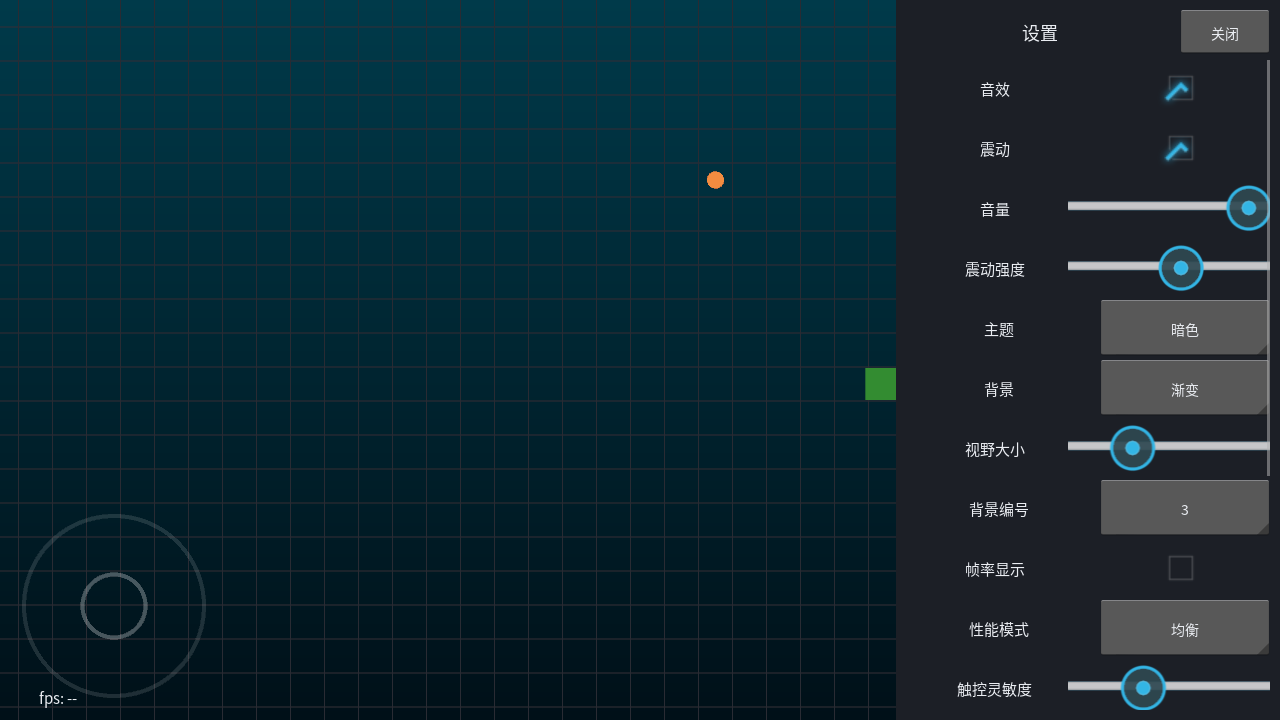
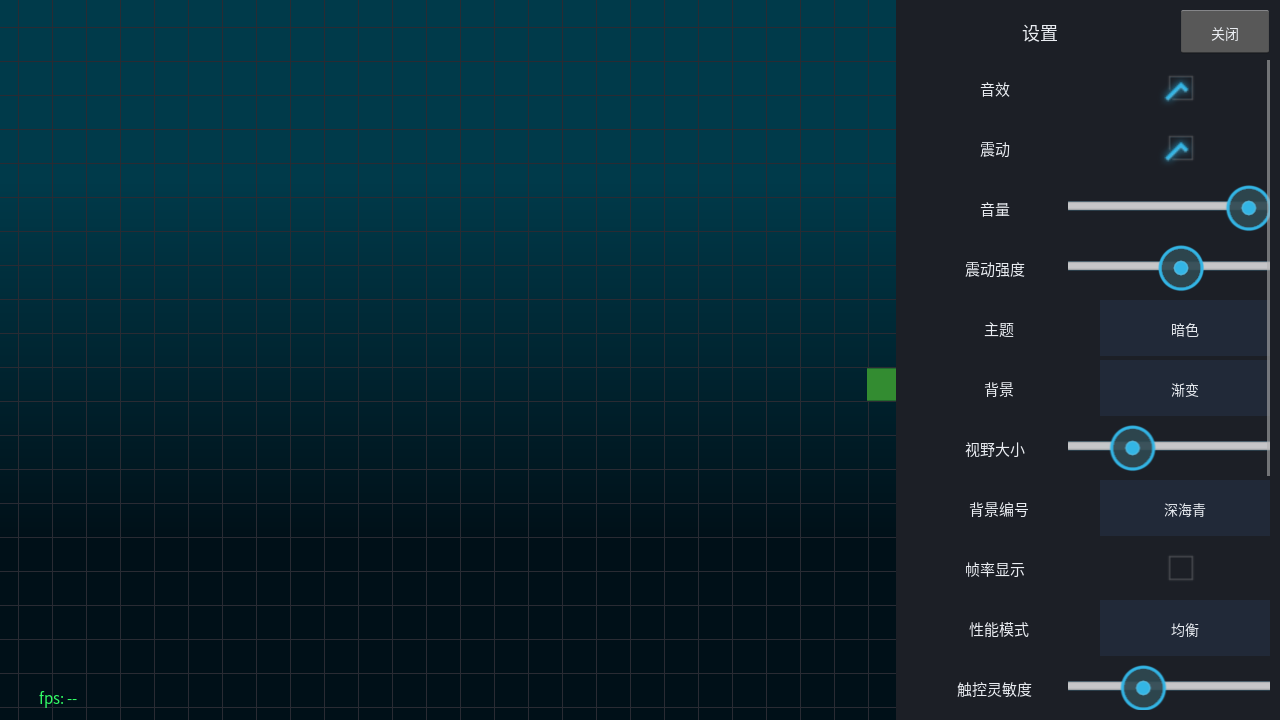
Fullscreen immersive, smooth 2px gradient, spinner contrast + bg names, dynamic joystick + input queue

diff --git a/src/app/app.py b/src/app/app.py
@@ -45,6 +45,7 @@ from core.debug import DebugStats
 from core.audio import Haptics, SoundManager
 from core.confirm import ConfirmState
 from core.frame_budget import chunk_slot, forced_chunk_frame
+from core.input_queue import InputQueue
 from core.replay import Recorder
 from core.replay_player import ReplayDriver
 from core.replay_controls import ReplayControls
@@ -105,6 +106,7 @@ class SnakeApp(App):
     replaypause_shot = False
     bg_demo = False
     menu_shot = False
+    joystick_shot = False
     theme_override: str | None = None
     font_override: float | None = None
 
@@ -161,9 +163,11 @@ class SnakeApp(App):
         if self.wrap:
             self.game.set_wrap_mode(True)
         self.session: AISession | None = None
+        self.input_queue = InputQueue()
         if self.ai:
             self.session = AISession()
-            self.game.tick_listeners.append(self._ai_tick)
+        self.game.tick_listeners.append(self._apply_queue)
+        self.game.tick_listeners.append(self._ai_tick)
         self.canvas_widget = GameCanvas(self.game)
         self.canvas_widget.size_hint = (1.0, 1.0)
         self.canvas_widget.pos_hint = {"x": 0, "y": 0}
@@ -200,7 +204,6 @@ class SnakeApp(App):
         self.scrim = Scrim(on_tap=self._close_menu, size_hint=(1, 1))
         root.add_widget(self.scrim)
         self.scrim.show(False)
-        root.add_widget(self.panel)
         self.menu_btn = MenuButton(on_toggle=self._toggle_menu,
                                    pos_hint={'right': 0.99, 'top': 0.985})
         root.add_widget(self.menu_btn)
@@ -257,6 +260,9 @@ class SnakeApp(App):
             if self.pause_shot:
                 Clock.schedule_once(lambda _dt: self._toggle_pause(), 0.4)
                 Clock.schedule_once(lambda _dt: self._shot("pause"), 0.9)
+            if self.joystick_shot:
+                Clock.schedule_once(self._fake_joystick, 0.5)
+                Clock.schedule_once(lambda _dt: self._shot("joystick"), 1.0)
             if self.menu_shot:
                 Clock.schedule_once(lambda _dt: self._toggle_menu(), 0.4)
                 Clock.schedule_once(lambda _dt: self._shot("menu"), 0.9)
@@ -406,17 +412,24 @@ class SnakeApp(App):
             pass
 
     def _toggle_menu(self) -> None:
-        opened = self.panel.opacity > 0.5
-        if opened:
+        if getattr(self, "menu_open", False):
             self._close_menu()
-        else:
-            self.panel.opacity = 1
-            self.panel.disabled = False
-            self.scrim.show(True)
+            return
+        self.menu_open = True
+        self.panel.opacity = 1
+        self.panel.disabled = False
+        if self.panel.parent is None:
+            self.root_layout.add_widget(self.panel)
+        self.root_layout.remove_widget(self.menu_btn)
+        self.root_layout.add_widget(self.menu_btn)   # 提到最上层
+        self.scrim.show(True)
+        self.scrim.opacity = 0.35
+        self.panel.apply_theme(palette(self.cfg.get("theme", "dark")))
 
     def _close_menu(self) -> None:
-        self.panel.opacity = 0
-        self.panel.disabled = True
+        self.menu_open = False
+        if self.panel.parent is not None:
+            self.root_layout.remove_widget(self.panel)
         self.scrim.show(False)
 
     def _toggle_ai(self) -> None:
@@ -501,6 +514,20 @@ class SnakeApp(App):
         self.replay_overlay.pos_hint = {"right": 1, "top": 0.98}
         self.root_layout.add_widget(self.replay_overlay)
         self.replay_overlay.apply_theme(palette(self.cfg.get("theme", "dark")))
+
+    def _fake_joystick(self, _dt: float) -> None:
+        """截图用：模拟手指落在屏幕中心并向右滑动 70px。"""
+        class _T:
+            def __init__(self, x, y, uid):
+                self.x, self.y, self.uid = x, y, uid
+
+            @property
+            def pos(self):
+                return (self.x, self.y)
+
+        cx, cy = 640, 360
+        self.canvas_widget.on_touch_down(_T(cx, cy, 999))
+        self.canvas_widget.on_touch_move(_T(cx + 70, cy, 999))
 
     def _replay_tap(self) -> None:
         '''把后续输入放到回放驱动里，演示 2x 播放。'''
@@ -631,7 +658,14 @@ class SnakeApp(App):
         self.canvas_widget.rebuild()
 
     def _on_direction(self, direction) -> None:
-        self.game.set_direction(direction)
+        if self.replay_mode or self.confirm_state.active:
+            return
+        self.input_queue.push(direction, self.game.snake.direction)
+
+    def _apply_queue(self, game) -> None:
+        direction = self.input_queue.pop()
+        if direction is not None:
+            game.set_direction(direction)
 
     def _apply_window_size(self) -> None:
         if desktop.is_android():

diff --git a/src/view/settings_panel.py b/src/view/settings_panel.py
@@ -14,7 +14,7 @@ from kivy.uix.gridlayout import GridLayout
 from kivy.uix.label import Label
 from kivy.uix.scrollview import ScrollView
 from kivy.uix.slider import Slider
-from kivy.uix.spinner import Spinner
+from kivy.uix.spinner import Spinner, SpinnerOption
 from kivy.uix.checkbox import CheckBox
 
 from app import strings
@@ -22,9 +22,22 @@ from app.fonts import FONT_NAME
 from app.theme import palette
 from view.themed import ThemedMixin
 from core.layout import content_height
+from app.strings import GRADIENT_NAMES, SOLID_NAMES
 from data.storage import PERF_MODES, THEMES
 
 ROW_H = 56.0
+
+
+class DarkOption(SpinnerOption):
+    """下拉选项：深底白字，避免默认灰底灰字。"""
+
+    def __init__(self, **kw) -> None:
+        kw.setdefault("font_name", FONT_NAME)
+        kw.setdefault("font_size", 14.0)
+        super().__init__(**kw)
+        self.background_normal = ""
+        self.background_color = (0.13, 0.16, 0.22, 1)
+        self.color = (1, 1, 1, 1)
 
 # config key → strings key
 LABEL_KEY = {
@@ -129,6 +142,10 @@ class SettingsOverlay(ThemedMixin, BoxLayout):
         sp = Spinner(
             text=label_map[self.cfg[key]], values=[label_map[v] for v in values],
             font_name=FONT_NAME, font_size=self._fs(14), size_hint_x=None, width=170,
+            option_cls=DarkOption,
+            background_normal="",
+            background_color=(0.13, 0.16, 0.22, 1),
+            color=(1, 1, 1, 1),
         )
         back = {label_map[v]: v for v in values}
 
@@ -151,7 +168,8 @@ class SettingsOverlay(ThemedMixin, BoxLayout):
         self._choice_row("bg_mode", ("solid", "gradient"),
                          {"solid": strings.t("bg_solid"), "gradient": strings.t("bg_gradient")})
         self._slider_row("view_scale", 0.6, 2.0)
-        self._choice_row("bg_index", tuple(range(16)), {i: str(i) for i in range(16)})
+        names = GRADIENT_NAMES if self.cfg.get("bg_mode") == "gradient" else SOLID_NAMES
+        self._choice_row("bg_index", tuple(range(16)), {i: names[i] for i in range(16)})
         self._switch_row("show_fps")
         self._choice_row(
             "perf_mode", PERF_MODES,

diff --git a/src/view/game_canvas.py b/src/view/game_canvas.py
@@ -55,7 +55,8 @@ class GameCanvas(Widget):
         self.colors = palette("dark")
         self.show_grid = True
         self.head_highlight = True
-        self._joystick = Joystick()
+        self._joystick = Joystick(swipe_px=30.0)
+        self._joy_origin = None
         self.joy_radius = 90.0
         self.on_direction = None          # 回调：direction -> None
         self._touch_uid = None
@@ -287,12 +288,9 @@ class GameCanvas(Widget):
     def on_touch_down(self, touch) -> bool:
         if not self.collide_point(*touch.pos):
             return False
-        cx, cy = self.joystick_center()
-        inside = ((touch.x - cx) ** 2 + (touch.y - cy) ** 2) ** 0.5 <= self.joy_radius * 1.15
-        if inside:
-            self._joystick.begin(cx, cy)   # 摇杆：基点固定左下
-        else:
-            self._joystick.begin(touch.x, touch.y)  # 滑动：以按下点为起点
+        # 全屏动态摇杆：手指落点即摇杆中心
+        self._joy_origin = (touch.x, touch.y)
+        self._joystick.begin(touch.x, touch.y)
         self._touch_uid = touch.uid
         return True
 
@@ -308,6 +306,7 @@ class GameCanvas(Widget):
         if touch.uid != self._touch_uid:
             return False
         self._joystick.end()
+        self._joy_origin = None
         self._touch_uid = None
         return True
 
@@ -364,10 +363,14 @@ class GameCanvas(Widget):
 
     # ---------- 虚拟摇杆（M4/R1） ----------
     def joystick_center(self) -> tuple[float, float]:
+        if self._joy_origin is not None:
+            return self._joy_origin
         r = self.joy_radius
         return (r + 24.0, r + 24.0)
 
     def _draw_joystick(self) -> None:
+        if not self._joystick.active:
+            return   # 松手后摇杆消失
         cx, cy = self.joystick_center()
         r = self.joy_radius
         Color(1, 1, 1, 0.12)

diff --git a/src/view/gradient_bg.py b/src/view/gradient_bg.py
@@ -10,8 +10,8 @@ from kivy.graphics.texture import Texture
 from core.colors import gradient_pair
 
 _CACHE: dict[int, Texture] = {}
-H = 256
-W = 8
+H = 2   # 只用两端颜色，GPU 线性过滤拉伸 → 无 banding
+W = 2
 
 
 def gradient_texture(index: int) -> Texture:
@@ -22,12 +22,9 @@ def gradient_texture(index: int) -> Texture:
 
     top, bottom = gradient_pair(index)
     buf = bytearray(W * H * 4)
-    for y in range(H):
-        t = y / (H - 1)
-        r = int(round((top[0] + (bottom[0] - top[0]) * t) * 255))
-        g = int(round((top[1] + (bottom[1] - top[1]) * t) * 255))
-        b = int(round((top[2] + (bottom[2] - top[2]) * t) * 255))
-        row = bytes((r, g, b, 255)) * W
+    for y, c in enumerate((top, bottom)):
+        row = bytes((int(round(c[0] * 255)), int(round(c[1] * 255)),
+                     int(round(c[2] * 255)), 255)) * W
         buf[y * W * 4:(y + 1) * W * 4] = row
 
     tex = Texture.create(size=(W, H))

diff --git a/src/app/strings.py b/src/app/strings.py
@@ -158,6 +158,16 @@ EN = {
     "replay_end": "Replay ended",
 }
 
+SOLID_NAMES = (
+    "碳黑", "石墨", "午夜蓝", "海军灰", "板岩灰", "枪灰", "雾蓝", "岩灰",
+    "松林绿", "苔藓绿", "琥珀棕", "酒红", "深紫", "墨青", "深空黑", "纯黑",
+)
+
+GRADIENT_NAMES = (
+    "极光蓝", "暮光灰蓝", "暗夜紫", "深海青", "紫罗兰", "森林绿", "琥珀橙", "月石灰",
+    "暗夜红", "青紫双色", "深蓝灰", "海雾蓝", "石墨渐变", "沙岩棕", "宝蓝", "银河紫",
+)
+
 STRINGS: dict[str, dict[str, str]] = {"zh": ZH, "en": EN}
 
 REQUIRED_KEYS = (

diff --git a/src/core/colors.py b/src/core/colors.py
@@ -41,3 +41,10 @@ def snake_gradient(length: int, hue_offset: float = 0.0) -> list[tuple[float, fl
         rgb = colorsys.hsv_to_rgb(hue, 0.65, 1.0 - 0.45 * t)  # 尾部压暗
         out.append(rgb)
     return out
+
+
+def background_name(mode: str, index: int) -> str:
+    from app.strings import GRADIENT_NAMES, SOLID_NAMES
+
+    table = GRADIENT_NAMES if mode == "gradient" else SOLID_NAMES
+    return table[int(index) % 16]

diff --git a/main.py b/main.py
@@ -100,6 +100,7 @@ def main() -> int:
     app.replaypause_shot = "--replaypause" in sys.argv
     app.bg_demo = "--bgdemo" in sys.argv
     app.menu_shot = "--menu" in sys.argv
+    app.joystick_shot = "--jstick" in sys.argv
     for _arg in sys.argv:
         if _arg.startswith("--theme="):
             app.theme_override = _arg.split("=", 1)[1]
